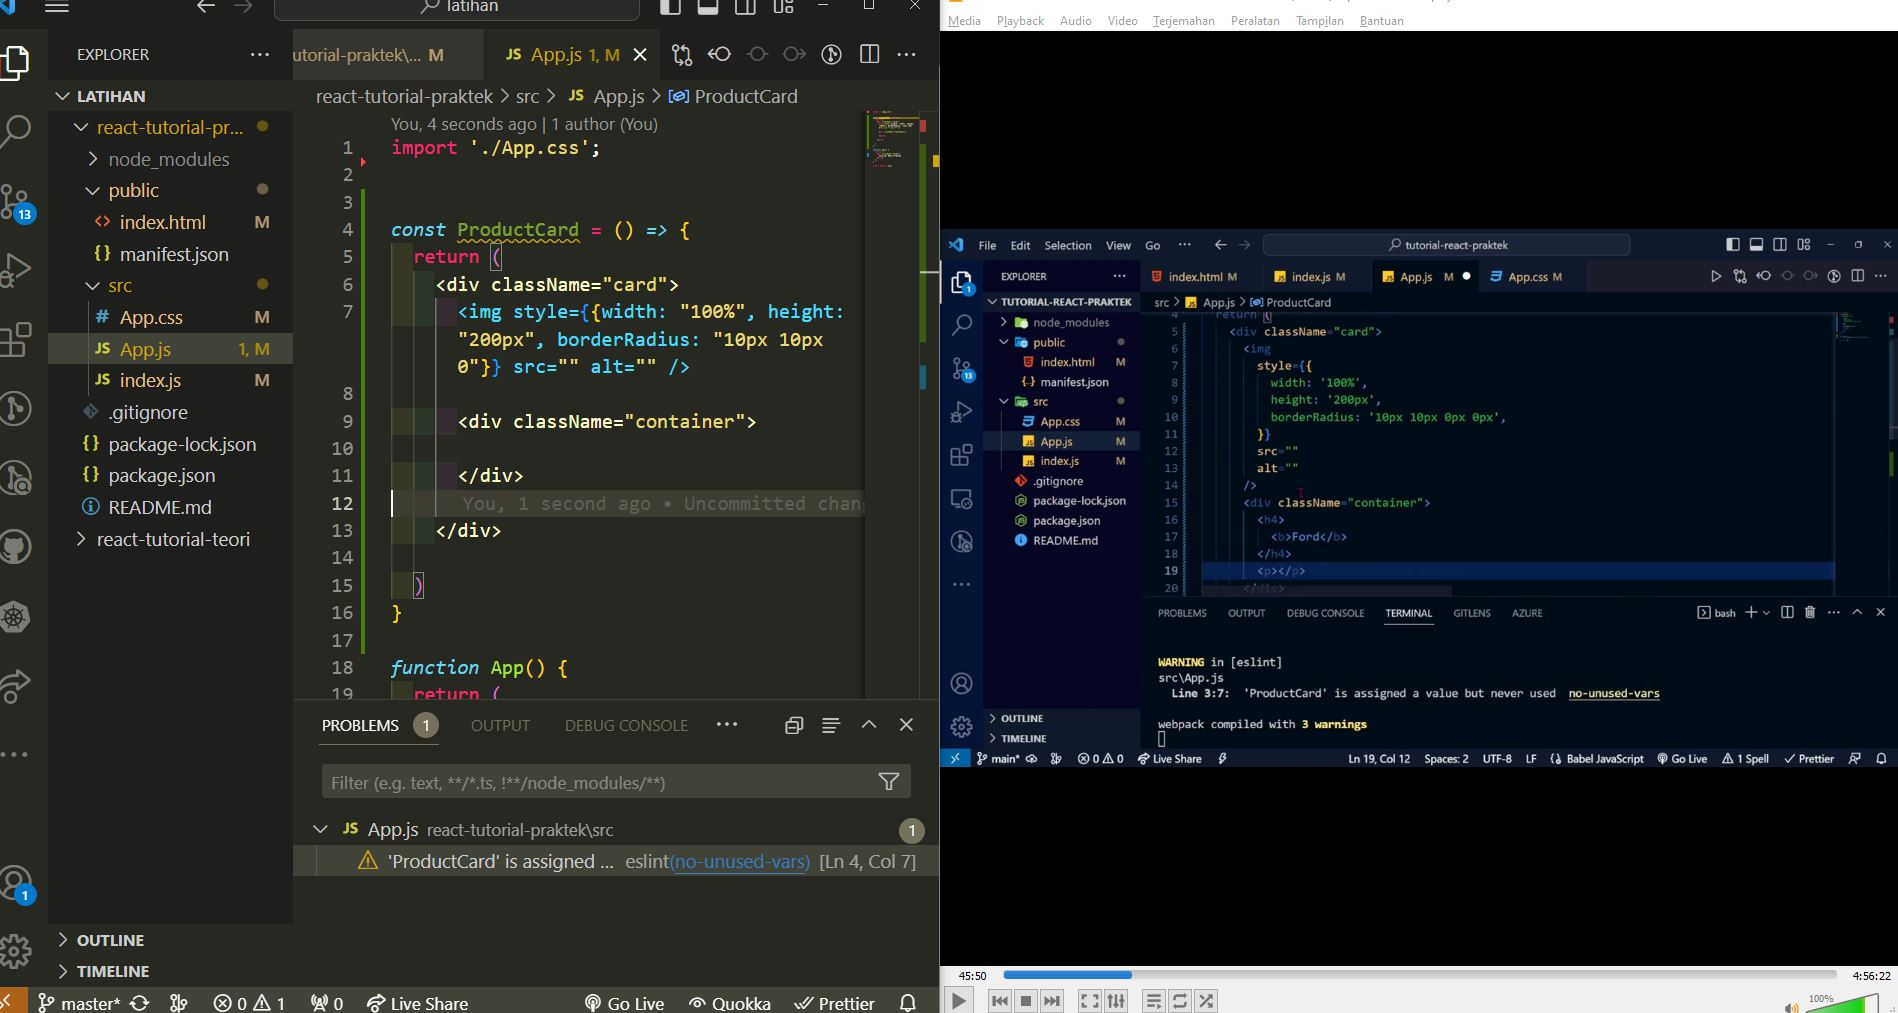
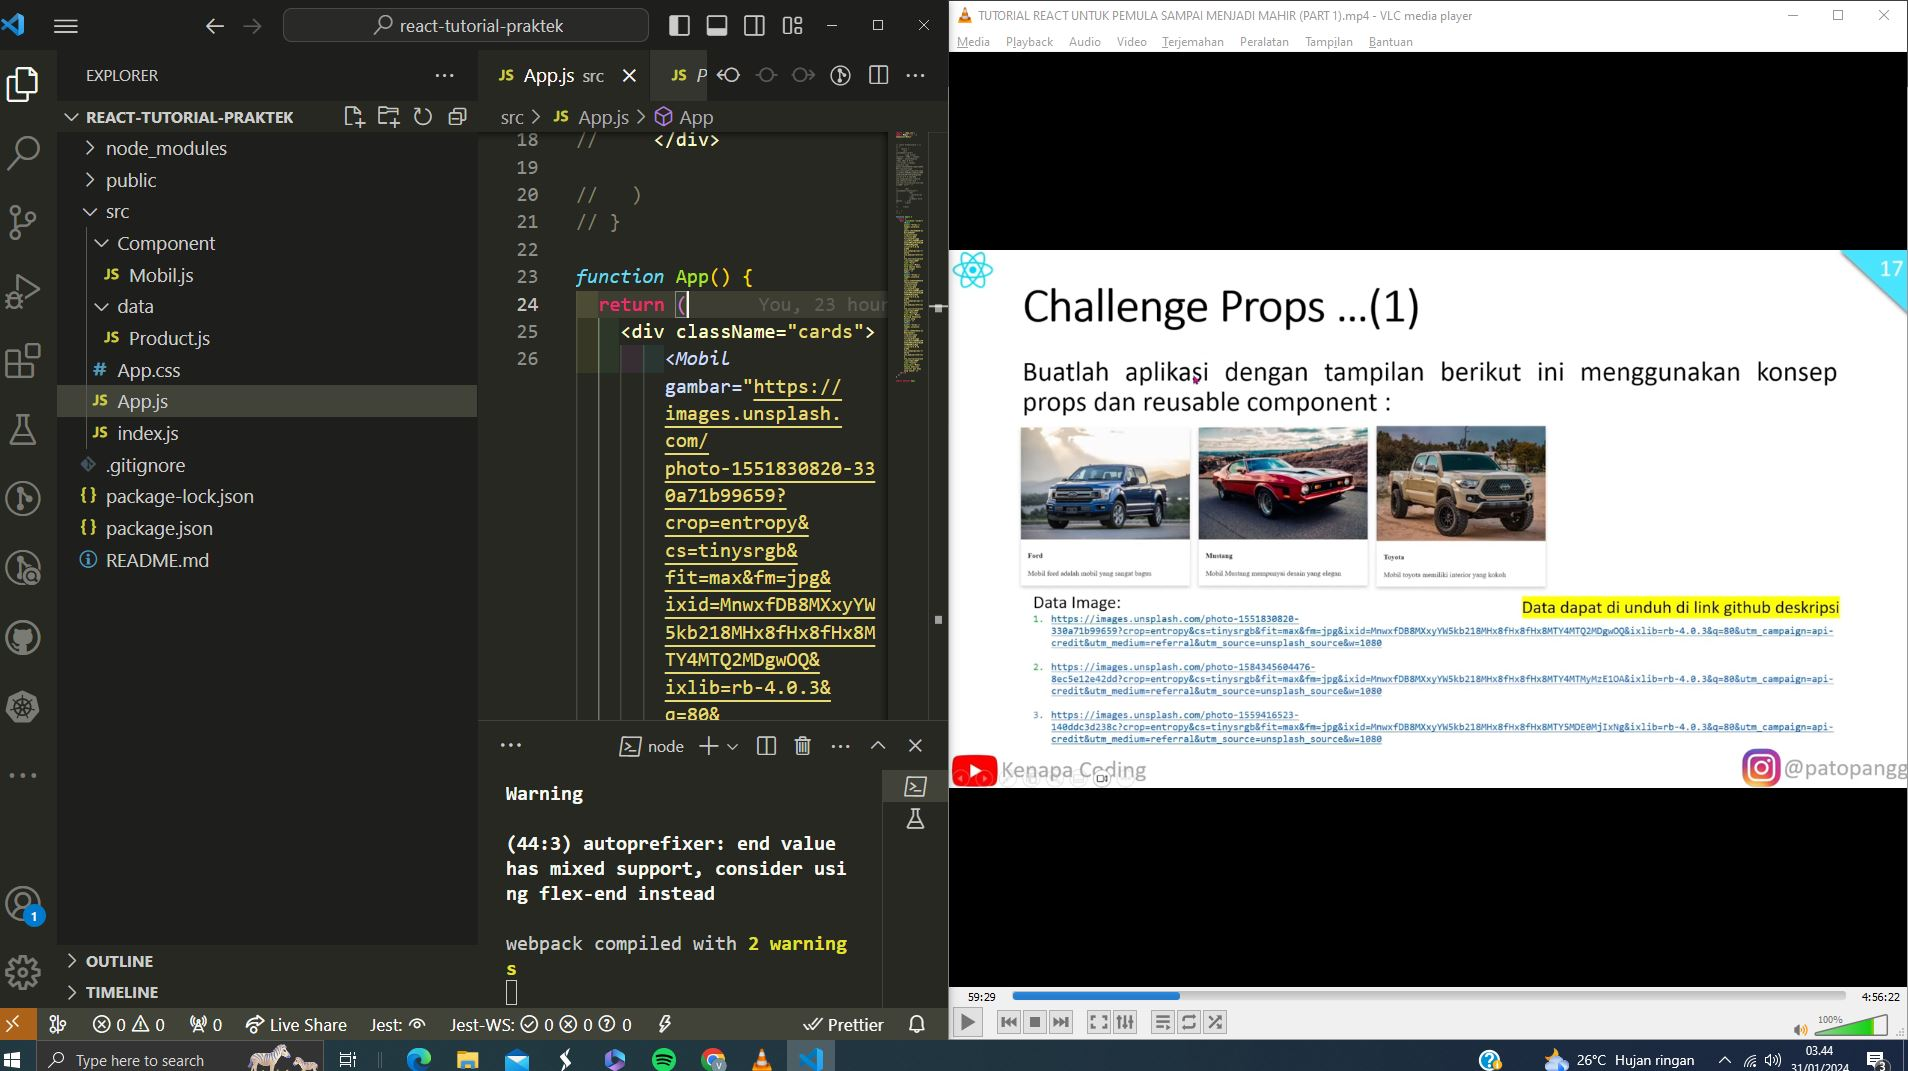
asdjaosjdojas

diff --git a/react-tutorial-praktek/src/App.js b/react-tutorial-praktek/src/App.js
@@ -1,27 +1,31 @@
 import './App.css';
+import Mobil from './Component/Mobil'
 
 
-const ProductCard = () => {
-  return (
-    <div className="card">
-      <img style={{width: "100%", height: "200px", borderRadius: "10px 10px 0 0"}} src="https://images.unsplash.com/photo-1551830820-330a71b99659?crop=entropy&cs=tinysrgb&fit=max&fm=jpg&ixid=MnwxfDB8MXxyYW5kb218MHx8fHx8fHx8MTY4MTQ2MDgwOQ&ixlib=rb-4.0.3&q=80&utm_campaign=api-credit&utm_medium=referral&utm_source=unsplash_source&w=1080" alt="" />
 
-      <div className="container">
-          <h4>
-            <b>Ford</b>
-          </h4>
-          <p>Mobil Ford adalah ....</p>
-      </div>
+// const ProductCard = () => {
+//   return (
+//     <div className="card">
+//       <img style={{width: "100%", height: "200px", borderRadius: "10px 10px 0 0"}} src="https://images.unsplash.com/photo-1551830820-330a71b99659?crop=entropy&cs=tinysrgb&fit=max&fm=jpg&ixid=MnwxfDB8MXxyYW5kb218MHx8fHx8fHx8MTY4MTQ2MDgwOQ&ixlib=rb-4.0.3&q=80&utm_campaign=api-credit&utm_medium=referral&utm_source=unsplash_source&w=1080" alt="" />
 
-    </div>
+//       <div className="container">
+//           <h4>
+//             <b>Ford</b>
+//           </h4>
+//           <p>Mobil Ford adalah ....</p>
+//       </div>
 
-  )
-}
+//     </div>
+
+//   )
+// }
 
 function App() {
   return (
     <div className="cards">
-      <ProductCard />
+        <Mobil gambar="https://images.unsplash.com/photo-1551830820-330a71b99659?crop=entropy&cs=tinysrgb&fit=max&fm=jpg&ixid=MnwxfDB8MXxyYW5kb218MHx8fHx8fHx8MTY4MTQ2MDgwOQ&ixlib=rb-4.0.3&q=80&utm_campaign=api-credit&utm_medium=referral&utm_source=unsplash_source&w=1080" tipe="Ford"  deskripsi="Mobil ford adalah mobil yang sangat bagus" />
+        <Mobil gambar="https://images.unsplash.com/photo-1584345604476-8ec5e12e42dd?crop=entropy&cs=tinysrgb&fit=max&fm=jpg&ixid=MnwxfDB8MXxyYW5kb218MHx8fHx8fHx8MTY4MTMyMzE1OA&ixlib=rb-4.0.3&q=80&utm_campaign=api-credit&utm_medium=referral&utm_source=unsplash_source&w=1080" tipe="Mustang"  deskripsi="Mobil Mustang mempunyai desain yang elegan" />
+        <Mobil gambar="https://images.unsplash.com/photo-1559416523-140ddc3d238c?crop=entropy&cs=tinysrgb&fit=max&fm=jpg&ixid=MnwxfDB8MXxyYW5kb218MHx8fHx8fHx8MTY5MDE0MjIxNg&ixlib=rb-4.0.3&q=80&utm_campaign=api-credit&utm_medium=referral&utm_source=unsplash_source&w=1080" tipe="Toyota"  deskripsi="Mobil toyota memiliki interior dan body yang kokoh" />
     </div>
   );
 }

diff --git a/react-tutorial-praktek/src/Component/Mobil.js b/react-tutorial-praktek/src/Component/Mobil.js
@@ -1,0 +1,16 @@
+import React from "react";
+
+const Mobil = (props) => {
+    return(
+        <div className="card">
+            <img style={{width: "100%", height: "200px", borderRadius: "10px 10px 0 0"}} src={props.gambar} alt="" />
+            <div className="container">
+                <h4><b>{props.tipe}</b></h4>
+            </div>
+            <p>{props.deskripsi}</p>
+        </div>
+        
+    )
+}
+
+export default Mobil
